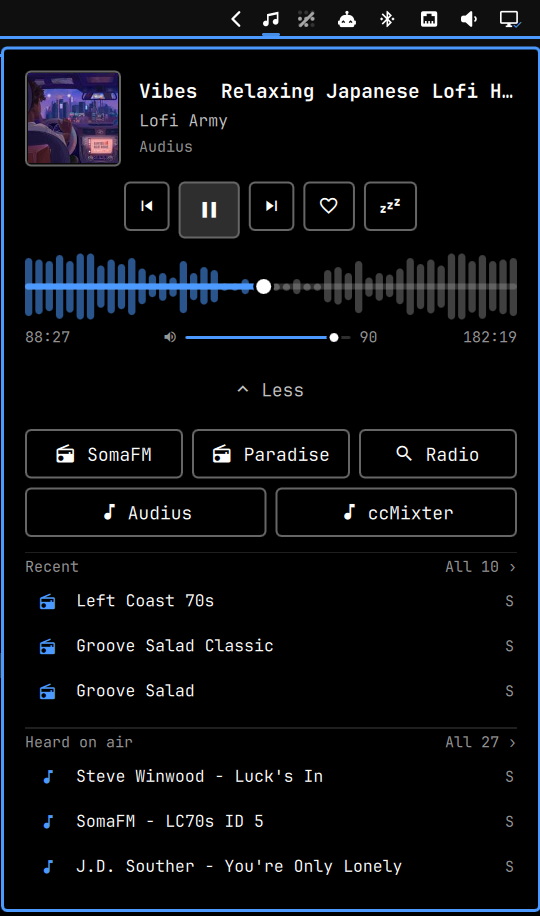
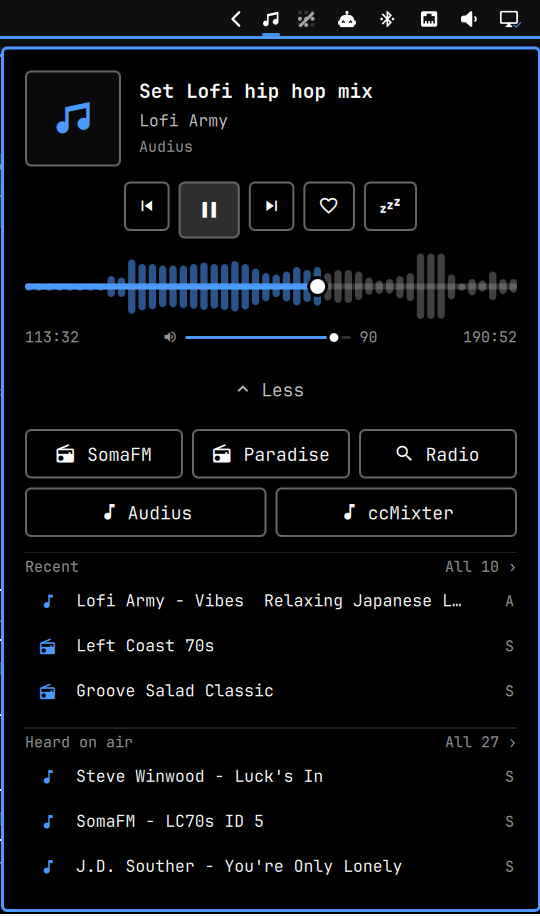
Replace the cava spectrum with a loudness waveform from the shell (#5)

diff --git a/BarWidget.qml b/BarWidget.qml
@@ -2,6 +2,7 @@ import QtQuick
 import Quickshell
 import Quickshell.Io
 import Quickshell.Services.Mpris
+import Quickshell.Services.Pipewire
 import qs.Commons
 import qs.Ui
 
@@ -95,12 +96,20 @@ BarWidget {
   readonly property real position: seekTarget >= 0 ? seekTarget : (player ? player.position : 0)
   property bool jumping: false          // typing a time to go to
 
-  // The spectrum behind the seek bar comes from cava, which is optional:
-  // without it the card just shows the bar.
-  readonly property int spectrumBands: 24
-  property bool spectrumAvailable: false
-  property var spectrum: []             // 0-100 per band, low to high
-  readonly property bool spectrumWanted: spectrumAvailable && popupOpen && view === "home" && playing
+  // The waveform behind the seek bar is how loud shojey's own stream has been
+  // over the last second or two, newest on the right.
+  readonly property int waveBars: 48
+  property var wave: []                 // 0-1 per bar, oldest first
+  property var waveRecent: []           // raw levels of the last three seconds
+  readonly property bool waveWanted: popupOpen && view === "home" && playing
+  // bin/shojey names its mpv stream, which tells it from any other mpv.
+  readonly property var stream: {
+    var nodes = Pipewire.nodes.values
+    for (var i = 0; i < nodes.length; i++) {
+      if (nodes[i].isStream && nodes[i].name === "shojey") return nodes[i]
+    }
+    return null
+  }
 
   // Started but not on MPRIS yet: mpv is still connecting.
   readonly property bool connecting: player === null && current !== null
@@ -361,19 +370,16 @@ BarWidget {
     if (popupOpen) {
       now = Date.now()
       reload()
-      if (!spectrumAvailable) spectrumCheck.running = true
     } else {
       view = "home"
       expanded = false
+      wave = []
+      waveRecent = []
       jumping = false
       searchDebounce.stop()
     }
   }
   onSeekableChanged: if (!seekable) jumping = false
-  onSpectrumWantedChanged: {
-    spectrumProc.running = spectrumWanted
-    if (!spectrumWanted) spectrum = []
-  }
   onPlayingUrlChanged: {
     liveCover = ""
     seekTarget = -1
@@ -501,25 +507,33 @@ BarWidget {
     }
   }
 
-  Process {
-    id: spectrumCheck
-    running: true
-    command: ["sh", "-c", "command -v cava"]
-    onExited: function(code) { root.spectrumAvailable = code === 0 }
+  PwObjectTracker {
+    objects: root.stream ? [root.stream] : []
   }
 
-  // cava listens to the system output, so it hears everything that plays,
-  // not only shojey; it runs just while the card shows something playing.
-  Process {
-    id: spectrumProc
-    running: false
-    command: ["sh", "-c", "exec cava -p /dev/stdin <<EOF\n"
-      + "[general]\nbars = " + root.spectrumBands + "\nframerate = 30\n"
-      + "[output]\nmethod = raw\nraw_target = /dev/stdout\ndata_format = ascii\n"
-      + "ascii_max_range = 100\nchannels = mono\nEOF"]
+  PwNodePeakMonitor {
+    id: streamLevel
+    node: root.stream
+    enabled: root.waveWanted && root.stream !== null
+  }
 
-    stdout: SplitParser {
-      onRead: function(line) { root.spectrum = line.split(";") }
+  Timer {
+    interval: 33
+    repeat: true
+    running: streamLevel.enabled
+    onTriggered: {
+      var level = streamLevel.peak
+      // Music sits in a narrow band of loudness; stretch the band of the
+      // last few seconds over the bar height, so a quiet passage still moves.
+      var recent = root.waveRecent.slice(-89)
+      recent.push(level)
+      root.waveRecent = recent
+      var sorted = recent.slice().sort(function(a, b) { return a - b })
+      var low = sorted[Math.floor(sorted.length / 10)]
+      var range = Math.max(0.15, sorted[sorted.length - 1] - low)
+      var next = root.wave.slice(1 - root.waveBars)
+      next.push(Math.pow(Math.min(1, Math.max(0, (level - low) / range)), 0.7))
+      root.wave = next
     }
   }
 
@@ -811,43 +825,34 @@ BarWidget {
           width: parent.width
           spacing: Style.space(4)
 
-          // The seek bar runs through the middle of the spectrum, which is
-          // mirrored around the bass: lows in the center, highs at the edges.
+          // The seek bar runs through the middle of the waveform.
           Item {
             id: timeline
             width: parent.width
-            height: root.spectrumAvailable ? Style.space(44)
-              : root.seekable ? scrubber.implicitHeight : Style.space(3)
+            height: Style.space(44)
 
             Row {
-              id: spectrumRow
-              visible: root.spectrumAvailable
+              id: waveRow
               anchors.centerIn: parent
               height: parent.height
               spacing: Style.space(2)
 
-              readonly property int count: root.spectrumBands * 2
-              readonly property real barWidth: (timeline.width - spacing * (count - 1)) / count
+              readonly property real barWidth: (timeline.width - spacing * (root.waveBars - 1)) / root.waveBars
 
               Repeater {
-                model: spectrumRow.count
+                model: root.waveBars
 
                 Rectangle {
                   required property int index
-                  readonly property int band: index < root.spectrumBands ? root.spectrumBands - 1 - index : index - root.spectrumBands
                   // On a track, the part already played is lit.
-                  readonly property bool lit: !root.seekable || (index + 0.5) / spectrumRow.count <= scrubber.progress
+                  readonly property bool lit: !root.seekable || (index + 0.5) / root.waveBars <= scrubber.progress
 
                   anchors.verticalCenter: parent.verticalCenter
-                  width: spectrumRow.barWidth
-                  height: Math.max(width, (Number(root.spectrum[band]) || 0) / 100 * timeline.height)
+                  width: waveRow.barWidth
+                  height: Math.max(width, (root.wave[root.wave.length - root.waveBars + index] || 0) * timeline.height)
                   radius: width / 2
                   color: lit ? Color.accent : root.bar.foreground
                   opacity: lit ? 0.55 : 0.25
-
-                  Behavior on height {
-                    NumberAnimation { duration: 80 }
-                  }
                 }
               }
             }

diff --git a/README.md b/README.md
@@ -7,7 +7,7 @@ the system `mpv-mpris` script exposes mpv over MPRIS, Omarchy's media keys, OSD
 and media widget control it like any other player.
 
 <p>
-  <img src="screenshots/card.png" width="210" alt="The now-playing card under the bar: artwork, controls, a spectrum with the seek bar through it, and the volume between the times">
+  <img src="screenshots/card.png" width="210" alt="The now-playing card under the bar: artwork, controls, a waveform with the seek bar through it, and the volume between the times">
   <img src="screenshots/browse.png" width="210" alt="The card with Browse unfolded: source buttons, recent plays and songs heard on air">
   <img src="screenshots/somafm.png" width="210" alt="Browsing SomaFM channels inside the card">
   <img src="screenshots/audius.png" width="210" alt="Trending Audius tracks inside the card">
@@ -55,10 +55,10 @@ The volume is mpv's own, separate from the system volume, and is kept for the
 next play. The sleep timer button steps through 15, 30 and 60 minutes and off;
 playback stops when it runs out.
 
-With `cava` installed, a mirrored spectrum of what is playing moves behind the
-seek bar: bass in the middle, highs at the edges, and on a track the part
-already played is lit. cava listens to the system output, so other audio shows
-up in it too. Without cava the card just shows the bar.
+A waveform moves behind the seek bar: how loud the music has been over the
+last second or two, newest on the right, and on a track the part already
+played is lit. It follows shojey's own stream, so other audio doesn't show up
+in it.
 
 A track (anything that isn't a live station) gets a seek bar: drag it, click
 anywhere on it, or scroll over it to move through the track. Click the elapsed
@@ -107,8 +107,6 @@ sleep timer) and `$XDG_STATE_HOME/shojey/` (`recent.json`, `favorites.json`,
 
 `mpv`, `mpv-mpris`, `socat`, `jq`, `curl`, `wl-clipboard` — plus Omarchy's
 `omarchy-menu-select` and `omarchy-menu-input`.
-
-Optional: `cava`, for the spectrum behind the seek bar.
 
 ## Install
 
